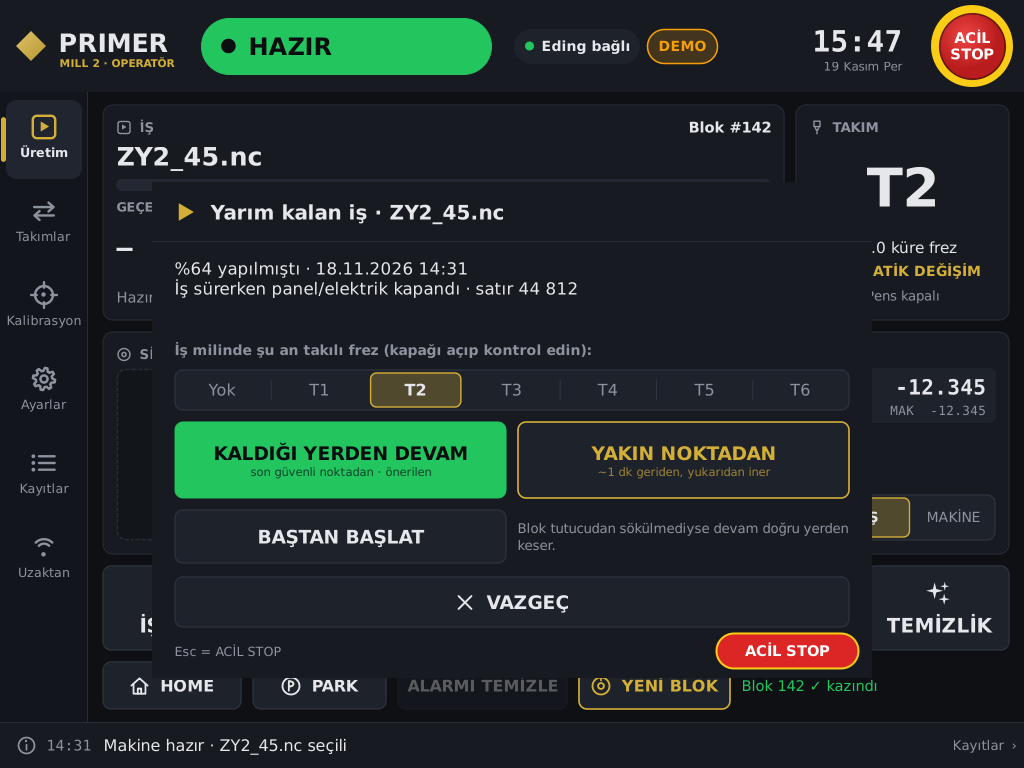
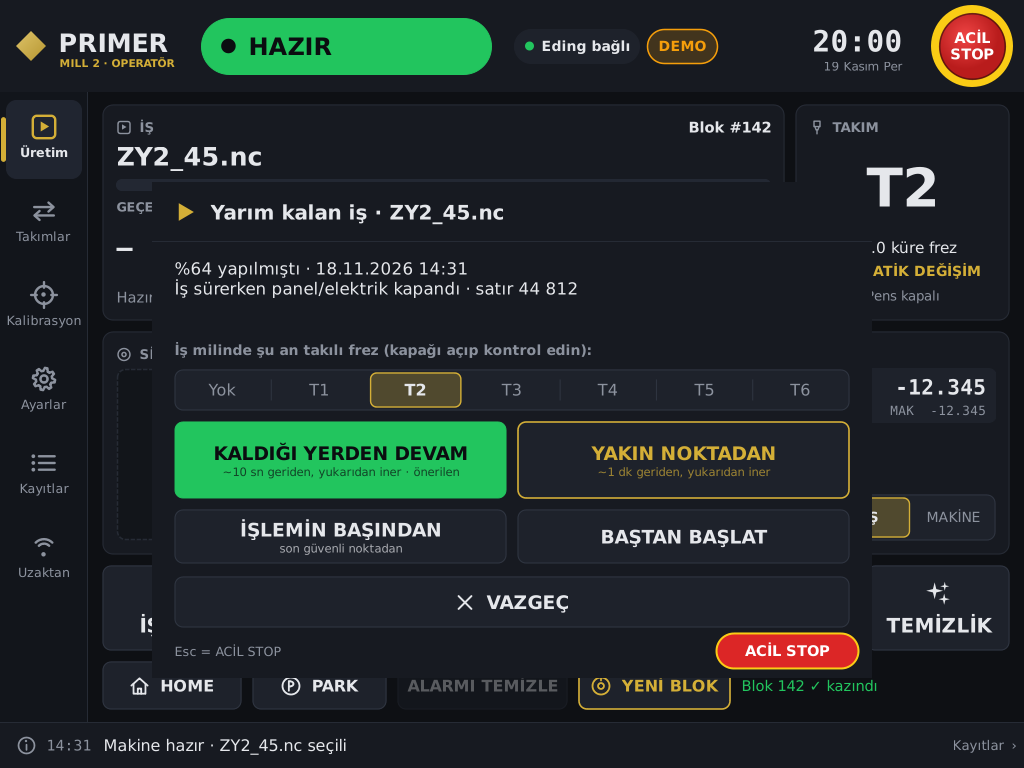
Kaldigi yerden devam: onerilen secenek isi neredeyse bastan kaziyordu
'Kaldigi yerden (onerilen)' son GOSUB Z_SAFE satirindan basliyordu; bu CAM
ciktisinda bir islem 20 000+ satir surdugu icin is (ilk islemde neredeyse
bastan) yeniden kaziniyordu. Yeni onerilen kip 'tam': durdugu yerin ~10 sn
gerisinden, guvenli Z'de X/Y'ye gidip o noktanin Z'sine F<=600 ile iner
(YAKIN NOKTADAN kipinin yaklasmasiyla ayni). Eski davranis 'ISLEMIN
BASINDAN' olarak kaldi. Yeni ve klasik panel, tests/Devam_Testi.ps1.
MAKINEDE DOGRULA.

Claude-Session: https://claude.ai/code/session_01AzwqC4ZEM5pcPdzvYXdH7g

diff --git a/PrimerMill_Kod_Inceleme/teslim/PrimerMill/ui/PrimerUI.cs b/PrimerMill_Kod_Inceleme/teslim/PrimerMill/ui/PrimerUI.cs
@@ -4640,7 +4640,7 @@ namespace PrimerUI
         }
 
         // ------------------------------------------------------------------ Yarım kalan iş
-        /// <summary>Yarım kalan iş: "guvenli", "yakin", "bastan", "iptal" + iş milindeki takım.</summary>
+        /// <summary>Yarım kalan iş: "tam", "yakin", "guvenli", "bastan", "iptal" + iş milindeki takım.</summary>
         public static DevamSonucu Devam(string dosya, string bilgi, int takim)
         {
             var r = new DevamSonucu { Takim = Math.Max(0, Math.Min(6, takim)) };
@@ -4658,10 +4658,10 @@ namespace PrimerUI
                 b.Tiklandi += delegate { r.Secim = sec; r.Takim = t.Secili; f.Sonuc = 1; f.Close(); };
                 return b;
             };
-            iz.Ekle(mk("KALDIĞI YERDEN DEVAM", "son güvenli noktadan · önerilen", Rol.Basari, "guvenli"), 0, 3);
+            iz.Ekle(mk("KALDIĞI YERDEN DEVAM", "~10 sn geriden, yukarıdan iner · önerilen", Rol.Basari, "tam"), 0, 3);
             iz.Ekle(mk("YAKIN NOKTADAN", "~1 dk geriden, yukarıdan iner", Rol.Vurgu, "yakin"), 1, 3);
-            iz.Ekle(mk("BAŞTAN BAŞLAT", "", Rol.Normal, "bastan"), 0, 4);
-            iz.Ekle(new Yazi("Blok tutucudan sökülmediyse devam doğru yerden keser.", 10f, false, YaziRol.Soluk) { Sar = true }, 1, 4);
+            iz.Ekle(mk("İŞLEMİN BAŞINDAN", "son güvenli noktadan", Rol.Normal, "guvenli"), 0, 4);
+            iz.Ekle(mk("BAŞTAN BAŞLAT", "", Rol.Normal, "bastan"), 1, 4);
             f.DugmeEkle(0, "VAZGEÇ", Rol.Normal, Simge.Kapat, -1);
             f.DugmeYukseklik = 60;
             Goster(f);

diff --git a/PrimerMill_Kod_Inceleme/ui/PrimerUI.cs b/PrimerMill_Kod_Inceleme/ui/PrimerUI.cs
@@ -4640,7 +4640,7 @@ namespace PrimerUI
         }
 
         // ------------------------------------------------------------------ Yarım kalan iş
-        /// <summary>Yarım kalan iş: "guvenli", "yakin", "bastan", "iptal" + iş milindeki takım.</summary>
+        /// <summary>Yarım kalan iş: "tam", "yakin", "guvenli", "bastan", "iptal" + iş milindeki takım.</summary>
         public static DevamSonucu Devam(string dosya, string bilgi, int takim)
         {
             var r = new DevamSonucu { Takim = Math.Max(0, Math.Min(6, takim)) };
@@ -4658,10 +4658,10 @@ namespace PrimerUI
                 b.Tiklandi += delegate { r.Secim = sec; r.Takim = t.Secili; f.Sonuc = 1; f.Close(); };
                 return b;
             };
-            iz.Ekle(mk("KALDIĞI YERDEN DEVAM", "son güvenli noktadan · önerilen", Rol.Basari, "guvenli"), 0, 3);
+            iz.Ekle(mk("KALDIĞI YERDEN DEVAM", "~10 sn geriden, yukarıdan iner · önerilen", Rol.Basari, "tam"), 0, 3);
             iz.Ekle(mk("YAKIN NOKTADAN", "~1 dk geriden, yukarıdan iner", Rol.Vurgu, "yakin"), 1, 3);
-            iz.Ekle(mk("BAŞTAN BAŞLAT", "", Rol.Normal, "bastan"), 0, 4);
-            iz.Ekle(new Yazi("Blok tutucudan sökülmediyse devam doğru yerden keser.", 10f, false, YaziRol.Soluk) { Sar = true }, 1, 4);
+            iz.Ekle(mk("İŞLEMİN BAŞINDAN", "son güvenli noktadan", Rol.Normal, "guvenli"), 0, 4);
+            iz.Ekle(mk("BAŞTAN BAŞLAT", "", Rol.Normal, "bastan"), 1, 4);
             f.DugmeEkle(0, "VAZGEÇ", Rol.Normal, Simge.Kapat, -1);
             f.DugmeYukseklik = 60;
             Goster(f);

diff --git a/PrimerMill_Kod_Inceleme/teslim/PrimerMill/ui/PrimerVeri.cs b/PrimerMill_Kod_Inceleme/teslim/PrimerMill/ui/PrimerVeri.cs
@@ -256,7 +256,7 @@ namespace PrimerUI
     /// <summary>Yarım kalan iş diyaloğu sonucu.</summary>
     public class DevamSonucu
     {
-        /// <summary>"guvenli", "yakin", "bastan" ya da "iptal".</summary>
+        /// <summary>"tam" (önerilen, ~10 sn geriden), "yakin", "guvenli" (işlem başı), "bastan" ya da "iptal".</summary>
         public string Secim = "iptal";
         /// <summary>İş milinde takılı frez (0 = yok).</summary>
         public int Takim;

diff --git a/PrimerMill_Kod_Inceleme/ui/PrimerVeri.cs b/PrimerMill_Kod_Inceleme/ui/PrimerVeri.cs
@@ -256,7 +256,7 @@ namespace PrimerUI
     /// <summary>Yarım kalan iş diyaloğu sonucu.</summary>
     public class DevamSonucu
     {
-        /// <summary>"guvenli", "yakin", "bastan" ya da "iptal".</summary>
+        /// <summary>"tam" (önerilen, ~10 sn geriden), "yakin", "guvenli" (işlem başı), "bastan" ya da "iptal".</summary>
         public string Secim = "iptal";
         /// <summary>İş milinde takılı frez (0 = yok).</summary>
         public int Takim;

diff --git a/PrimerMill_Kod_Inceleme/INCELEME_RAPORU.md b/PrimerMill_Kod_Inceleme/INCELEME_RAPORU.md
@@ -100,6 +100,7 @@ Windows PowerShell 5.1 ile çalıştırılmadı. İlk iş olarak Windows'ta çal
 | 17 | SK-16: yuva ayarı sihirbazında YAKLAŞ yalnız GİT noktasından X/Y ≤ 2 mm, Z/A/B ≤ 0.05 sapmada | GİT → 1 mm jog ile ortala → YAKLAŞ iner; 3 mm jog ya da Z− sonrası reddedilmeli |
 | 18 | Yeni panel, ekran ölçeği %125/%150 | Windows'ta ekran turu: bulanıklık, taşma yok |
 | 19 | Elle frez değişimi yeni sıra (kullanıcı isteği, makro sürüm 5): 1) PENS'İ AÇ 2) TAKTIM · pens kapanır, hareket yok 3) KAZIMAYA BAŞLA 4) makine Z'yi kaldırır, sensörde ölçer ve onay sormadan kazımaya başlar | Simülasyonda ve makinede elle modda bir iş: TAKTIM'dan sonra makine KIPIRDAMAMALI; KAZIMAYA BAŞLA'dan sonra ölçüm ve kazıma kesintisiz olmalı |
+| 20 | Kaldığı yerden devam (kullanıcı bildirimi: "önerilen" seçenek işi neredeyse baştan kazıyordu): önerilen kip artık durduğu yerin ~10 sn gerisinden başlar; güvenli Z'de A/B ve X/Y'ye gider, o noktanın Z'sine F≤600 ile iner. Eski davranış "İŞLEMİN BAŞINDAN" olarak duruyor | Simülasyonda bir işi ortasında DURDUR → BAŞLAT → KALDIĞI YERDEN: devam programı durduğu satırın hemen gerisinden başlamalı (Kayıtlar'da "asıl dosyada satır …"). Makinede ilk denemeyi boşta (frezsiz, blok takılı değilken) %10–30 hızla yapın, iniş noktasının doğru olduğunu görün |
 
 ## 6. Uygulanmayan öneriler
 
